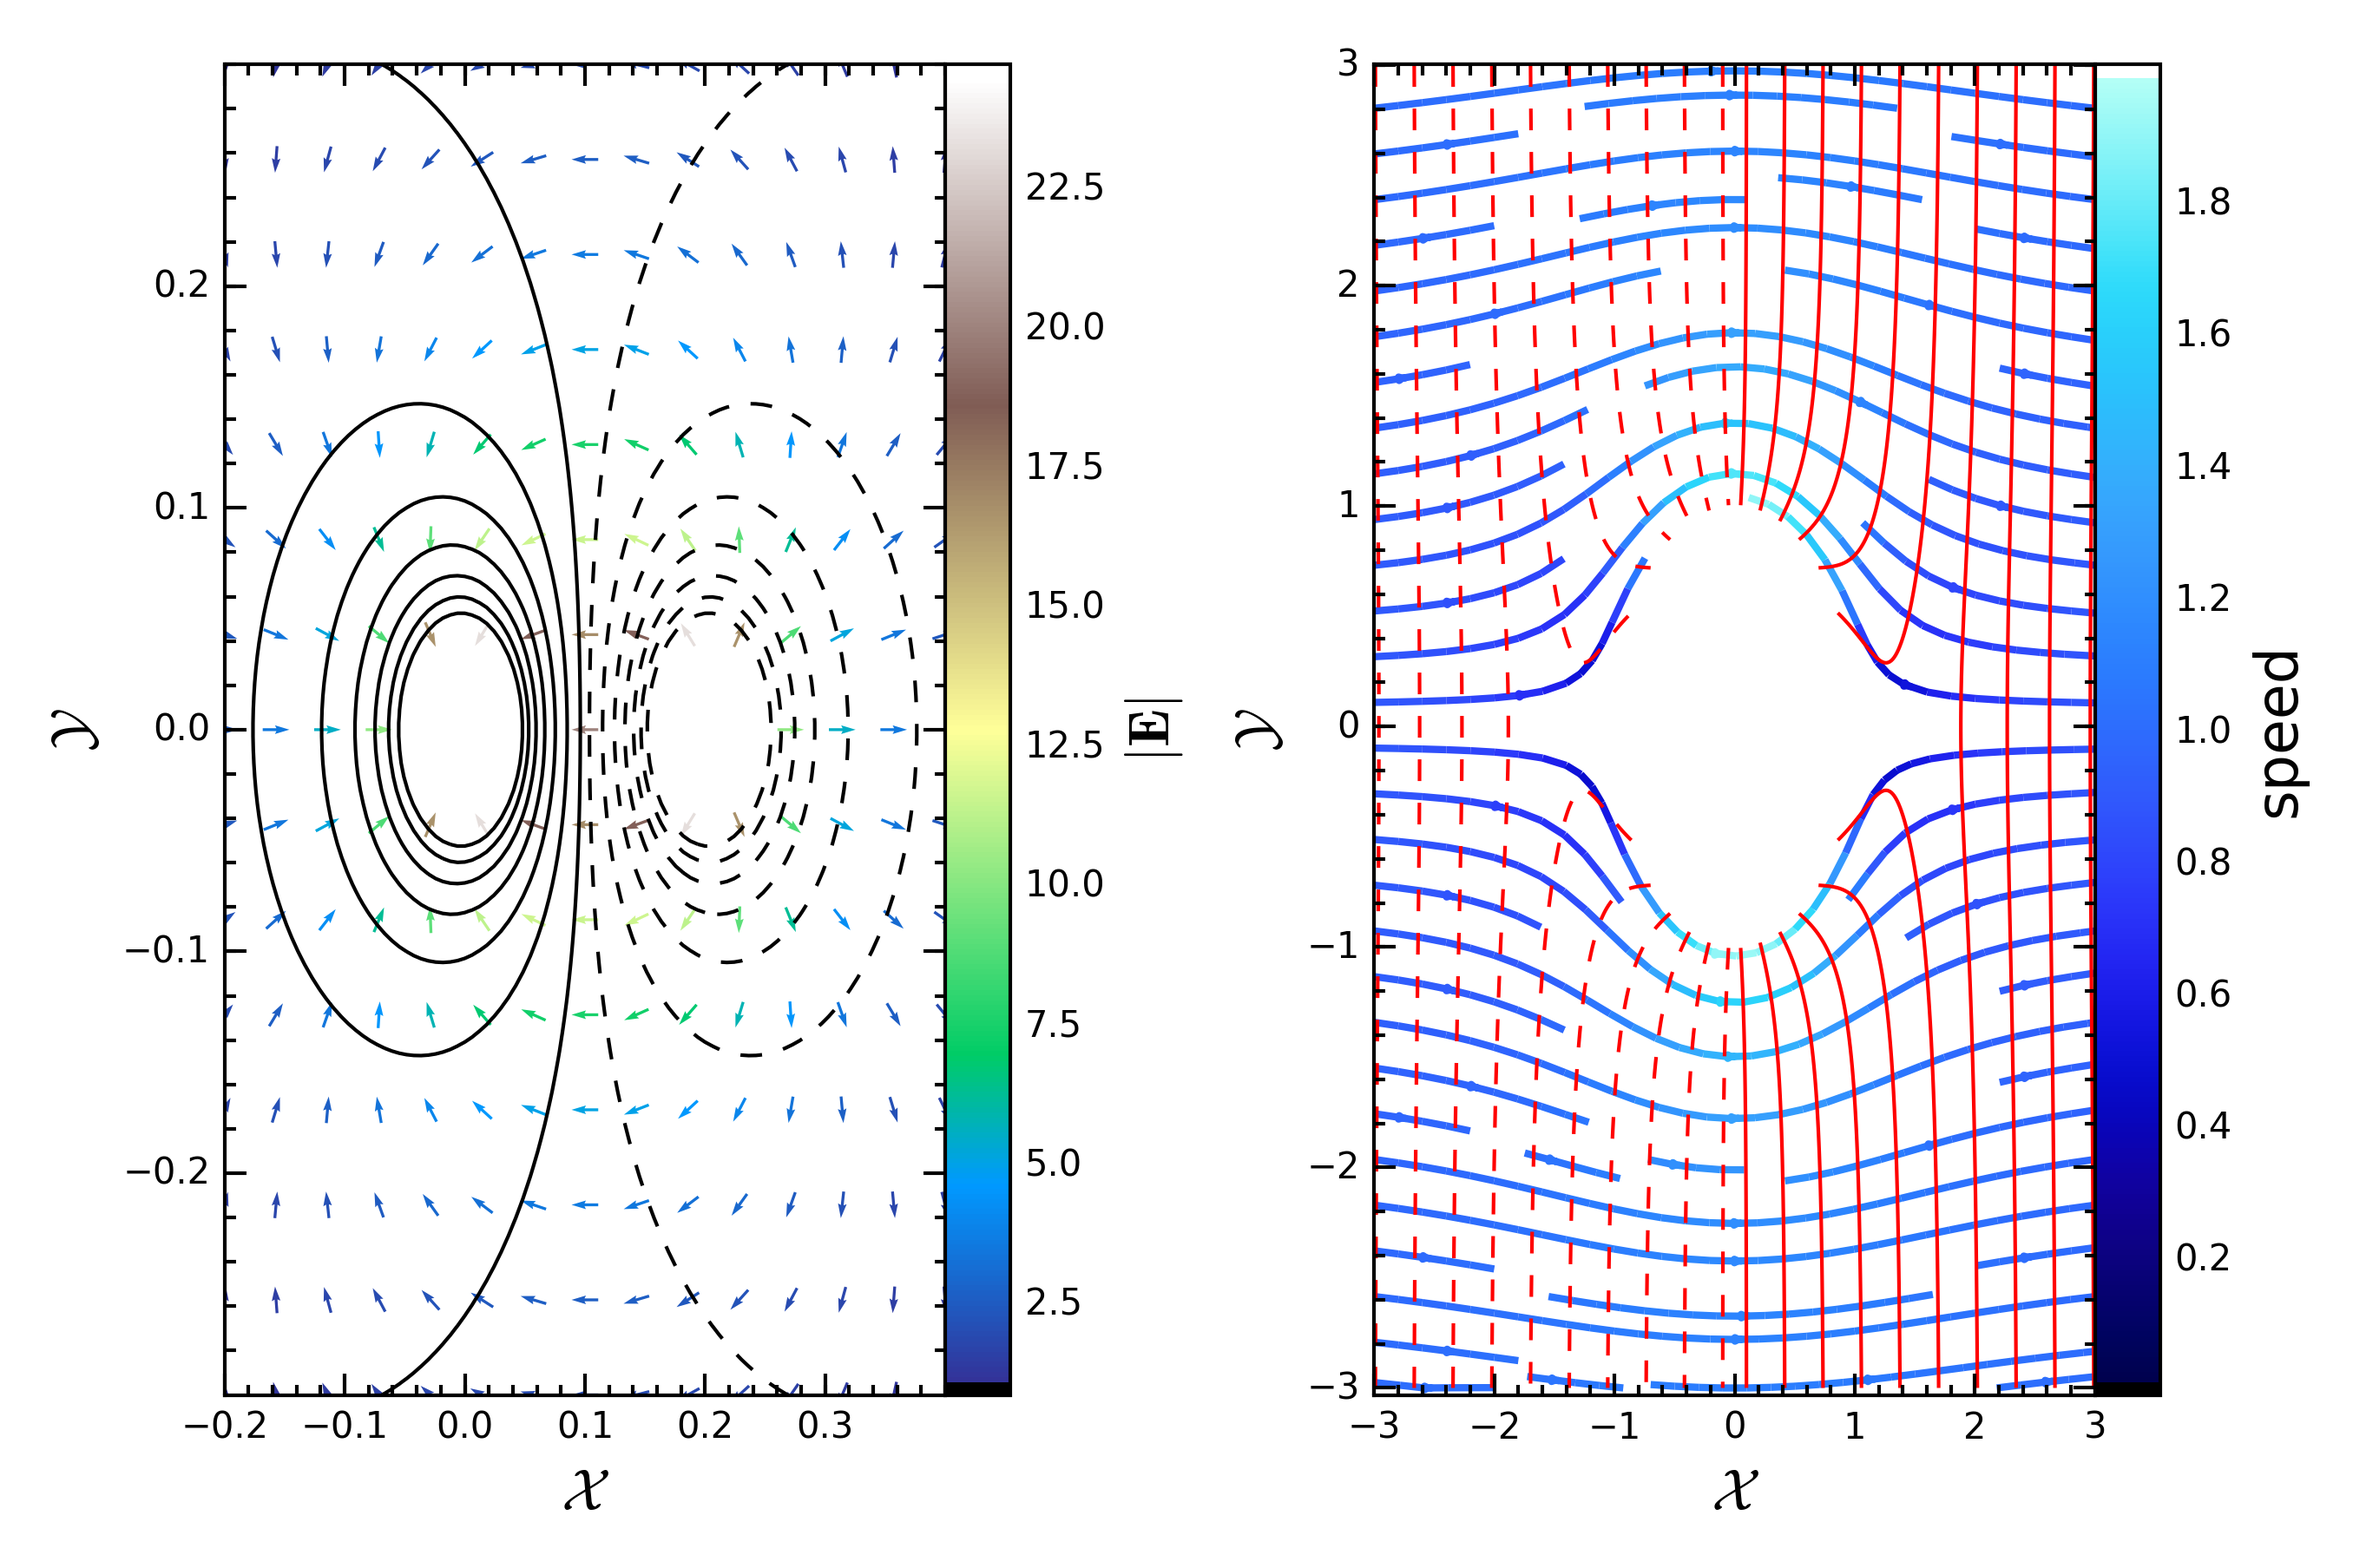
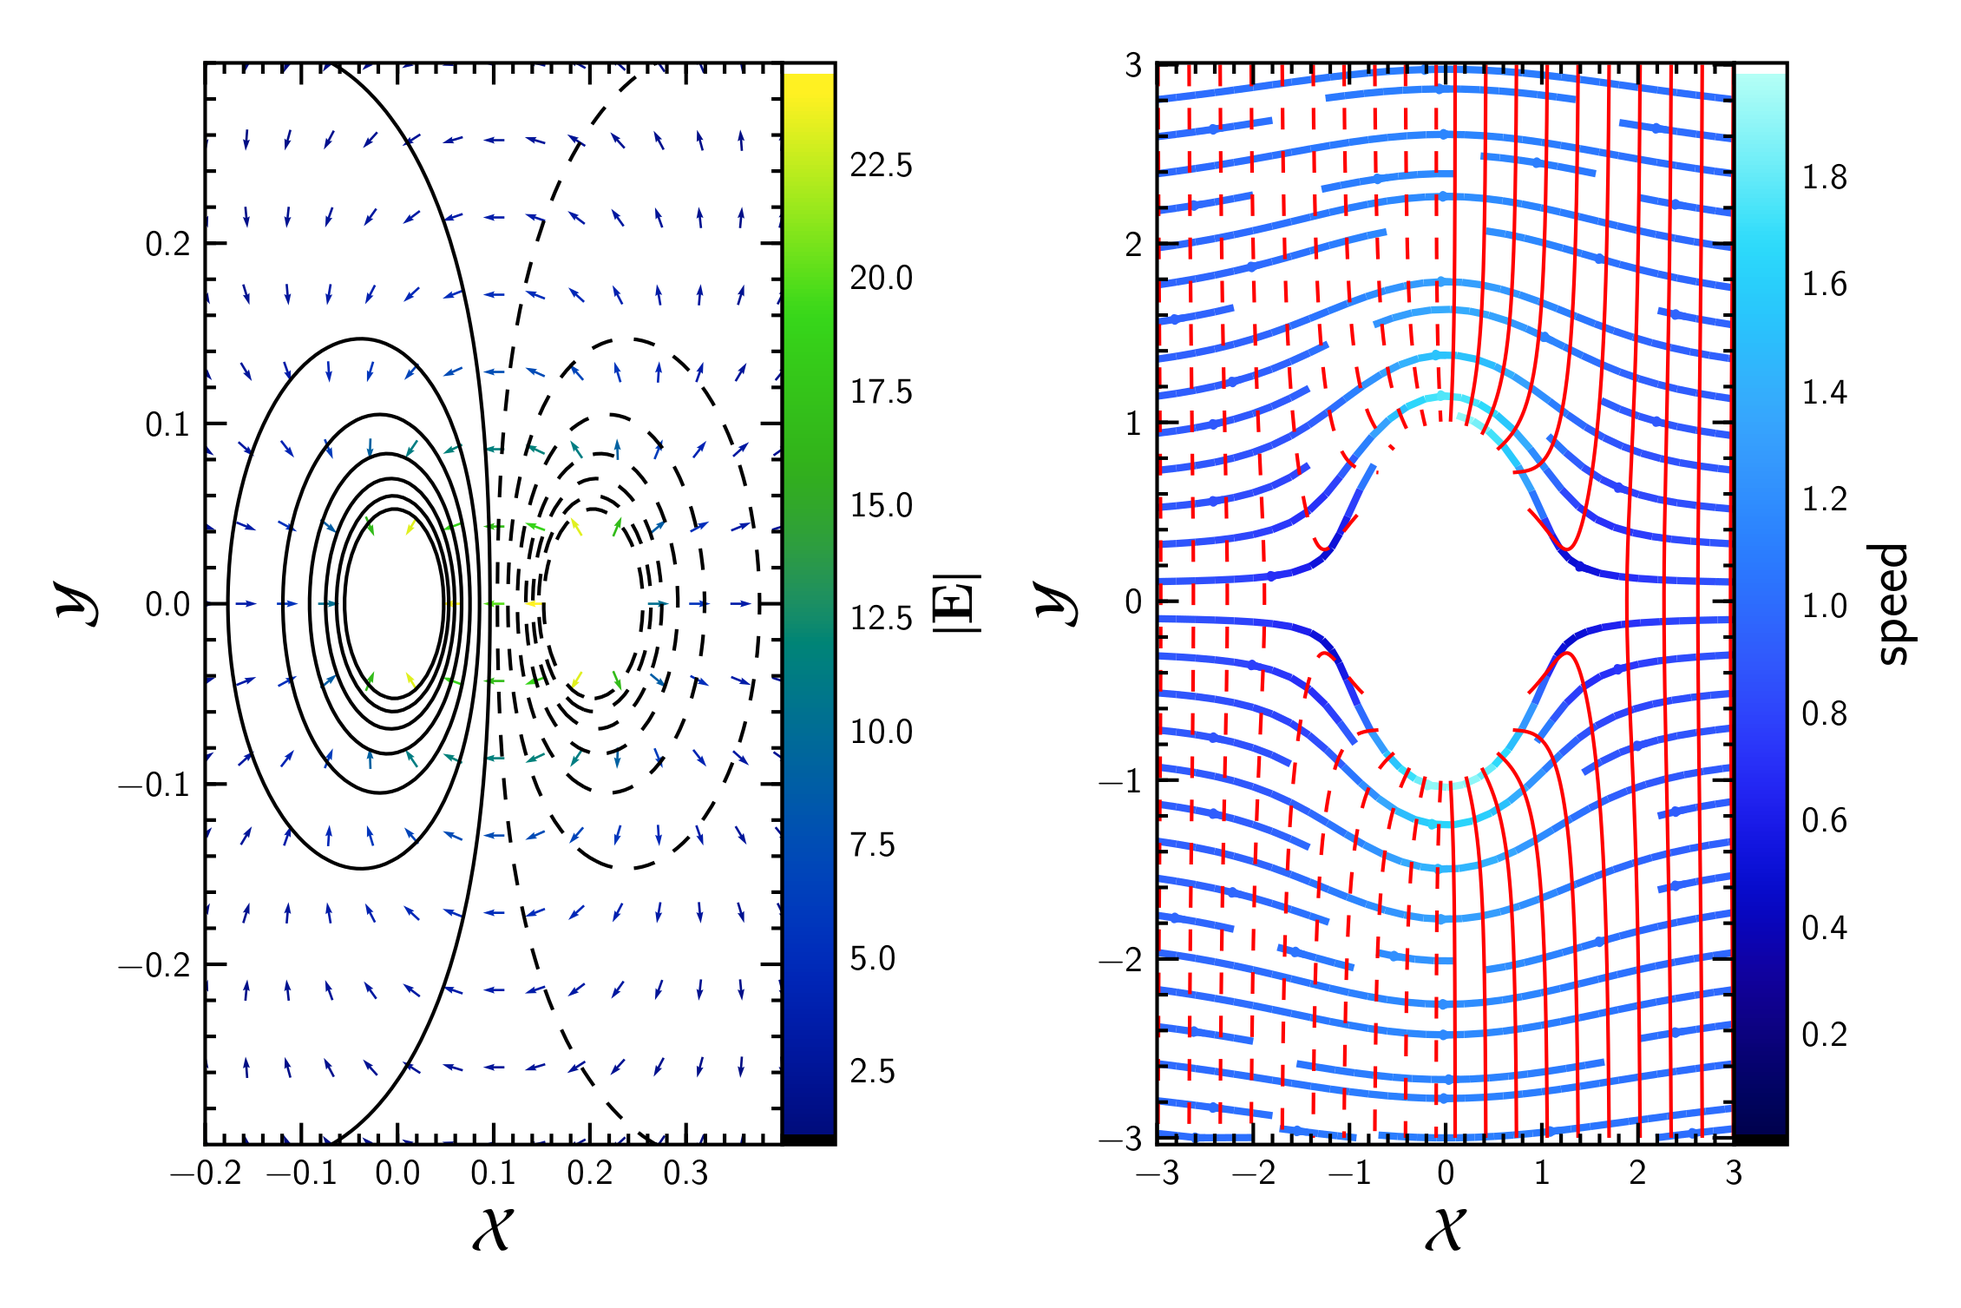
More examples. PNG backend set to PGF.

diff --git a/PypersPlots.py b/PypersPlots.py
@@ -24,9 +24,9 @@ def latexify(fscale=1.0):
     mpl.use('pgf')
     from matplotlib.backends.backend_pgf import FigureCanvasPgf
     mpl.backend_bases.register_backend('pdf', FigureCanvasPgf)
+    mpl.backend_bases.register_backend('png', FigureCanvasPgf)
     rc_mnras_preamble = {
-        #"backend" : "ps",
-        #"font.size": 10,
+        #"backend": "pgf"
         "text.usetex": False,        # use LaTeX to write all text
         "axes.labelsize": 16,        # fontsize for x and y labels (was 10)
         "legend.fontsize": 10,       # was 10
@@ -66,13 +66,14 @@ def initPlot(nrows=1,ncols=1,landscape=True):
         w,h = figure.figaspect(2.0/3.0)
     else:
         w,h = figure.figaspect(1.5)
-
+    plt.clf()
     fig, ax = plt.subplots(nrows=nrows, ncols=ncols)
     fig.set_size_inches(w, h)
 
     return fig,ax
 
 def initGrid(nrows=1,ncols=1,cbloc="right",cbmode="each",landscape=True):
+    import matplotlib.pyplot as plt
     from mpl_toolkits.axes_grid1 import AxesGrid
 
     if landscape:
@@ -91,7 +92,7 @@ def initGrid(nrows=1,ncols=1,cbloc="right",cbmode="each",landscape=True):
     )
     return grid
 
-def decor(ax,xlim=None,ylim=None,xlabel=r"$x$",ylabel=r"$y$",lw=1.0,tlabelsize=10,minticks_on=True):
+def decor(ax,xlim=None,ylim=None,xlabel=r"$x$",ylabel=r"$y$",lw=1.0,tlabelsize=10,minticks_on=True,gridon=False):
     if minticks_on:
         ax.minorticks_on()
         ax.tick_params(axis='both', which='minor', length=3, width=lw)
@@ -105,28 +106,32 @@ def decor(ax,xlim=None,ylim=None,xlabel=r"$x$",ylabel=r"$y$",lw=1.0,tlabelsize=1
         ylim = ax.get_ylim()
     ax.set_xlim(xlim)
     ax.set_ylim(ylim)
+
     for axis in ['top','bottom','left','right']:
         ax.spines[axis].set_linewidth(lw)
         ax.spines[axis].set_color('black')
 
-def printer(fig,fname, savedir="./", pgfdir=None, onscreen=False, rasterd=True, printPNG=False, printPDF=True, delPNG=True):
+    if gridon:
+        ax.grid()
+
+def printer(fig,fname, savedir="./", onscreen=False, rasterd=True, printPNG=False, printPDF=True, delPNG=True):
     import matplotlib.pyplot as plt
-    import subprocess as sp
-    import os
     if onscreen:
         fig.suptitle(fname)
         plt.show()
     else:
+        import subprocess as sp
+        import os
         fullname = savedir + fname
         if  printPNG:
-            plt.savefig(fullname + '.png', format='png', dpi=300, rasterized=rasterd)
+            fig.savefig(fullname + '.png', format='png', rasterized=rasterd)
         if printPDF:
-            plt.savefig(fullname + '.pdf', format='pdf', dpi=300, rasterized=rasterd)
-        plt.savefig(fullname + '.pgf', dpi=300, rasterized=True)
+            fig.savefig(fullname + '.pdf', format='pdf', rasterized=rasterd)
+
+        fig.savefig(fullname + '.pgf', format='pgf', rasterized=True)
         counter = 0
         for lsitem in os.listdir(savedir):
             img_name = "-img%d" % (counter)
-            #print(img_name)
             if lsitem.endswith(img_name + ".png"):
                 im = sp.Popen(['imgtops', '-3', '-e', fullname + img_name + ".png"], stdout=sp.PIPE)
                 imEPS, imerr = im.communicate()
@@ -138,10 +143,7 @@ def printer(fig,fname, savedir="./", pgfdir=None, onscreen=False, rasterd=True, 
                 counter += 1
 
         # MODIF PGF FILE (PNG -> EPS & LOC -> FULL LOC)
-        if pgfdir == None:
-            pgfdir = savedir
-
-        replacements = {'png':'eps', fname:pgfdir + fname}
+        replacements = {'png':'eps', fname:savedir + fname}
         lines = []
         with open(fullname + '.pgf') as infile:
             for line in infile:
@@ -177,9 +179,12 @@ def theContours(ax, v1, v2, t, numl=None, clabels=False, logsep=False, fmt='%1.0
             ax.clabel(CS, fontsize=10, inline=True, fmt=fmt, manual=labelpos)
     return CS
 
-def theGradient(fig, ax, v1, v2, t, cbmin, cbmax, v1label=r"$x$", v2label="$y$", tlabel="$z$", LNorm=True, cmap='gist_stern', xlim=(0.0,3.0), ylim=(0.0,3.0), rasterd=True):
+def theGradient(fig, ax, v1, v2, t, cbmin, cbmax, v1label=r"$x$", v2label="$y$", tlabel="$z$", LNorm=True, cmap=None, xlim=(0.0,3.0), ylim=(0.0,3.0), rasterd=True):
     """Setting the contour gradient plot.
     """
+    if cmap == None:
+        import colorcet as cc
+        cmap = cc.cm['bgy']
     if LNorm:
         CM = ax.pcolormesh(v1, v2, t,
                            cmap=cmap,
@@ -194,7 +199,7 @@ def theGradient(fig, ax, v1, v2, t, cbmin, cbmax, v1label=r"$x$", v2label="$y$",
         )
     return CM
 
-def setColorBar(TT,fig,ax,log=False,blw=1.0,cblabel=r"$z$",cmap=None,subs=[1.0]):
+def setColorBar(TT,fig,ax,log=False,blw=1.0,cblabel=r"$z$",subs=[1.0]):
     import matplotlib.colors as col
     import matplotlib.ticker as ticker
 
@@ -215,12 +220,9 @@ def setColorBar(TT,fig,ax,log=False,blw=1.0,cblabel=r"$z$",cmap=None,subs=[1.0])
                           extend='both',
                           extendfrac=0.01
         )
-    if cmap == None:
-        cmap = TT.get_cmap()
     CB.ax.tick_params(which='major', length=0)
     CB.set_label(cblabel)
     CB.outline.set_linewidth(blw)
-    CB.set_cmap(cmap)
     CB.cmap.set_under(color='k')
     CB.cmap.set_over(color='w')
     return CB

diff --git a/README.md b/README.md
@@ -7,7 +7,8 @@ This is a library intended to produce ready to publish (and not so heavy) plots.
   * numpy
   * scipy
   * h5py (optional)
-  * colorcet (optional
+  * colorcet (optional)
+  * [imgtops](http://imgtops.sourceforge.net/)
 
 # Examples #
 
@@ -20,9 +21,11 @@ pp.latexify()
 x = np.linspace(0.0, 2.0*np.pi, 50)
 fig,ax = pp.initPlot()
 ax.plot(x,np.sin(x))
-ax = pp.decor(ax,xlim=(0.0,2.0*np.pi),ylim=(-1.0,1.0),ylabel=r"$\mathcal{L}$",xlabel=r"$\mathcal{X}$")
-pp.printer(fig,ax,'some example',onscreen=True)
+ax.plot(x,np.cos(x))
+pp.decor(ax,xlim=(0.0,2.0*np.pi),ylim=(-1.0,1.0),ylabel=r"$\mathcal{L}$",xlabel=r"$\mathcal{X}$")
+pp.printer(fig,'sin')
 ```
+![](README_figs/sin.png)
 
 ## Contours plot ##
 
@@ -34,6 +37,7 @@ z = np.sin(20*x**2)*np.cos(30*y)
 fig,ax = initPlot()
 pp.theContours(ax,x,y,z,colors=['r','b'])
 ```
+![](README_figs/contours.png)
 
 ## Gradient plot ##
 
@@ -47,6 +51,7 @@ To produce these examples go to the wiki. I will be placing more elaborated stuf
 
 # Recomendations and observations #
 
+## Interacting with Python ##
 For a good interactive plotting I suggest using IPython. Once inside call
 the magic command `%%matplotlib osx`, if you are using macOS:
 
@@ -54,7 +59,10 @@ the magic command `%%matplotlib osx`, if you are using macOS:
 %%matplotlib osx
 ```
 
+## About the output ##
 Something that must be pointed out is that the PNG image will not have the
 correct characters. However the PDF and PGF will.
+
+##  ##
 
 This module is under development. Any issue, comment and upgrades are most welcome.
